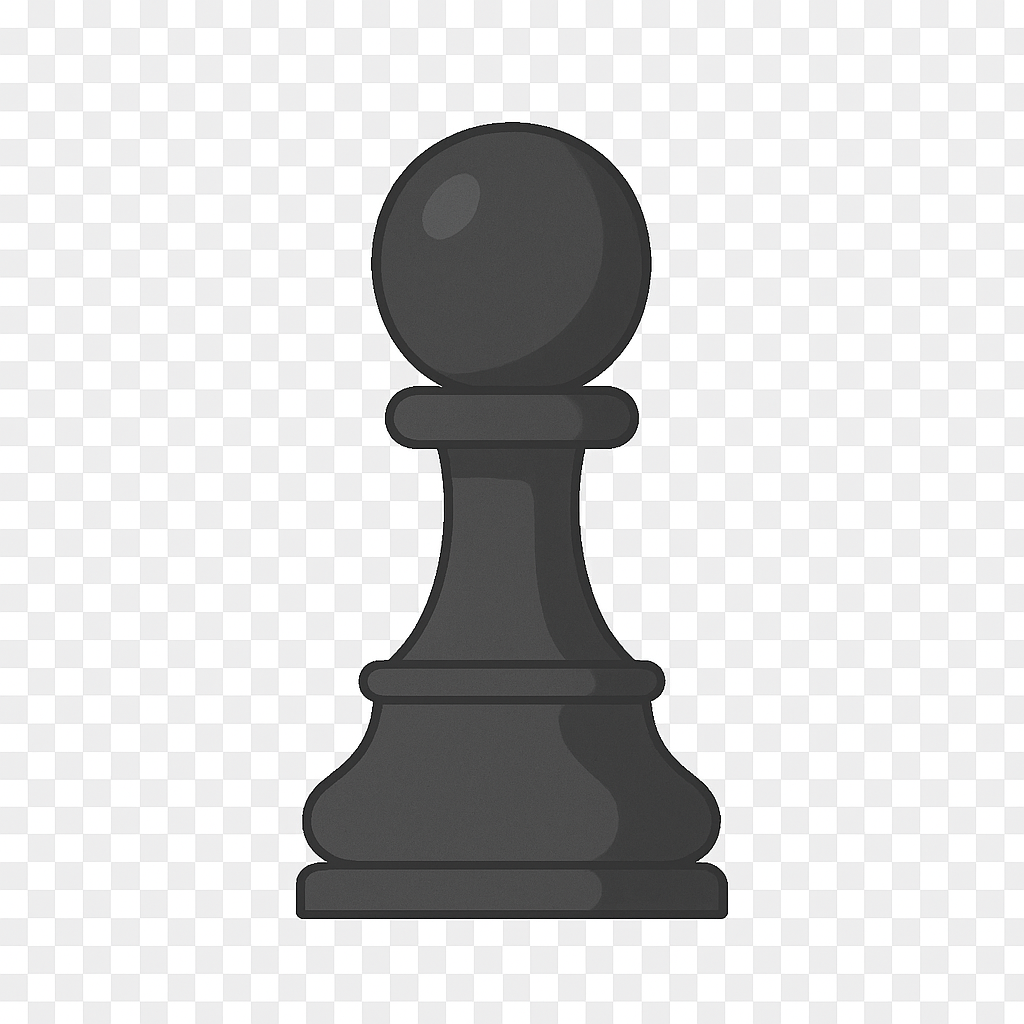
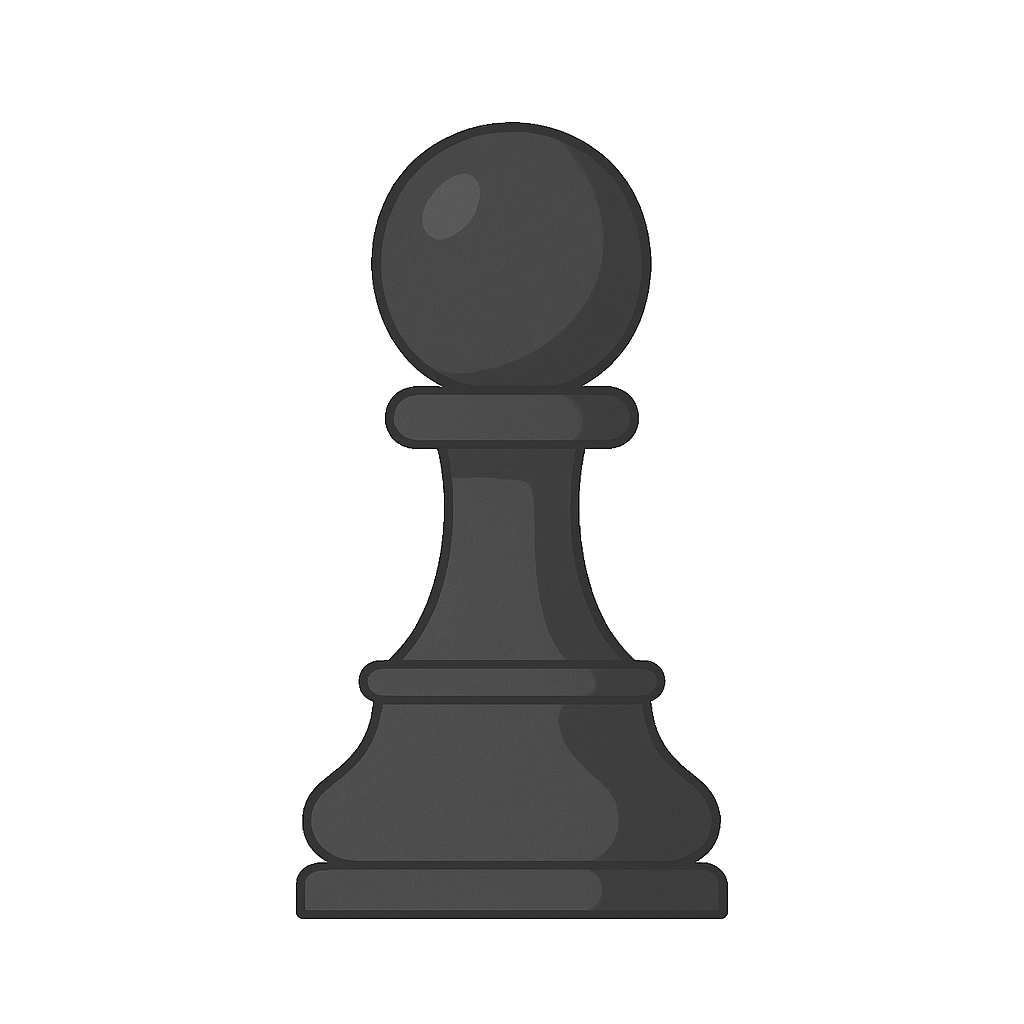
Updated /assets for black chess pieces, fixed transparent backgrounds

diff --git a/chessgui.py b/chessgui.py
@@ -30,20 +30,29 @@ class ChessGUI:
 
         self.images = {}
 
-        # Load piece images
         for color in colors:
             for piece in piece_types:
                 filename = f"{color}_{piece}.png"
                 path = os.path.join(base_path, filename)
                 try:
                     pil_img = Image.open(path).convert("RGBA")
+                    # Make pure white pixels transparent (for black pieces with white backgrounds)
+                    datas = pil_img.getdata()
+                    newData = []
+                    for item in datas:
+                        # treat any pixel with R=G=B=255 as transparent
+                        if item[:3] == (255, 255, 255):
+                            newData.append((255, 255, 255, 0))
+                        else:
+                            newData.append(item)
+                    pil_img.putdata(newData)
                     pil_img = pil_img.resize((self.square_size, self.square_size), Image.LANCZOS)
                     tk_img = ImageTk.PhotoImage(pil_img)
                     self.images[f"{color}_{piece}"] = tk_img
                 except Exception as e:
                     print(f"Failed to load {filename}: {e}")
 
-        # Create a transparent image for empty squares
+        # Transparent placeholder for empty squares
         empty = Image.new("RGBA", (self.square_size, self.square_size), (255, 255, 255, 0))
         self.empty_image = ImageTk.PhotoImage(empty)
 
@@ -53,22 +62,24 @@ class ChessGUI:
                 piece = self.board.board[row][col]
                 default_color = "#e3e3e3" if (row + col) % 2 == 0 else "#888888"
 
+                # Determine square color
                 bg_color = default_color
                 if self.selected == (row, col):
                     bg_color = "lightblue"
                 elif (row, col) in self.valid_moves:
                     target_piece = self.board.board[row][col]
                     if target_piece and target_piece.color != self.turn:
-                        bg_color = "red"
+                        bg_color = "#ff5555"  # Bright red for capturable piece
                     else:
-                        bg_color = "lightgreen"
+                        bg_color = "lightgreen"  # Green for empty valid move
 
+                # Set image
                 if piece:
                     piece_type = piece.__class__.__name__.lower()
                     image_key = f"{piece.color}_{piece_type}"
                     image = self.images.get(image_key)
                 else:
-                    image = self.empty_image  # Use the transparent image
+                    image = self.empty_image  # Use transparent image for empty square
 
                 if self.buttons[row][col] is None:
                     btn = Button(
@@ -84,7 +95,7 @@ class ChessGUI:
                     self.buttons[row][col] = btn
                 else:
                     self.buttons[row][col].config(image=image, text="", bg=bg_color)
-                self.buttons[row][col].image = image  # Keep reference
+                self.buttons[row][col].image = image  # Prevent garbage collection
 
     def on_click(self, row, col):
         piece = self.board.board[row][col]
@@ -105,9 +116,3 @@ class ChessGUI:
             self.selected = (row, col)
             self.valid_moves = piece.get_valid_moves(self.board)
             self.draw_board()
-
-
-if __name__ == "__main__":
-    root = Tk()
-    app = ChessGUI(root)
-    root.mainloop()

diff --git a/main.py b/main.py
@@ -1,12 +1,7 @@
-# main.py
-
 from tkinter import Tk
 from chessgui import ChessGUI
 
-def main():
+if __name__ == "__main__":
     root = Tk()
     app = ChessGUI(root)
     root.mainloop()
-
-if __name__ == "__main__":
-    main()
